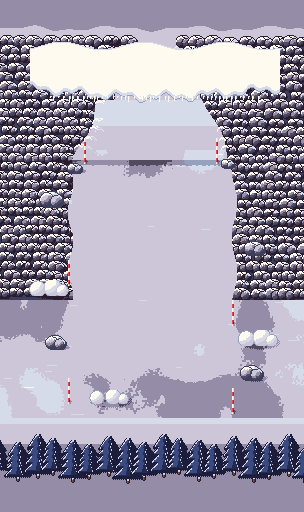
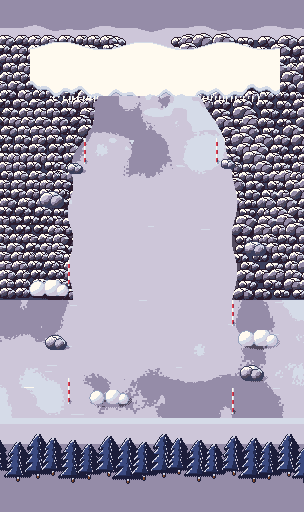
[C] v2.7: avalanche pass - varied boulders, no hard band at the top of the path
Claude-Session: https://claude.ai/code/session_011zCFYQCUMyXvVY6m2szGHz

Changed region(s): [[0.0, 0.0625, 1.0, 0.5938]]

diff --git a/tools/pixel/art_v27_snow.py b/tools/pixel/art_v27_snow.py
@@ -456,8 +456,8 @@ def scene_avalanche_pass() -> Scene26:
                 if side == 0 and x < -20:
                     x += 14
                     continue
-                w = rng0.randrange(14, 24)
-                h = rng0.randrange(9, 14)
+                w = rng0.randrange(12, 30)
+                h = rng0.randrange(8, 17)
                 if side == 1 and x > IMG_W:
                     break
                 rk = K7.snow_rock(int(x * 7 + y), w, h, ("ink", "iron", "slate", "ash"), "ink")
@@ -482,12 +482,12 @@ def scene_avalanche_pass() -> Scene26:
         img.set(x, int(top), "steel_l")
     K7.icicles(img, 50, 260, 96, 5404, ("steel_l", "white", "white"), 7)
     # the path: packed snow, wind-swept, calm in the middle
-    snow_ground(img, (0, 150, IMG_W, IMG_H), 5405, ("ash", "fog", "steel_l"),
+    snow_ground(img, (0, 96, IMG_W, IMG_H), 5405, ("ash", "fog", "steel_l"),
                 mask=lambda x, y: y >= 300 or cliff_l(y) <= x <= cliff_r(y))
     for x in range(IMG_W):
-        for y in range(100, 160):
-            if cliff_l(y) <= x <= cliff_r(y) and name_at(img, x, y) not in ("white", "steel_l", "steel"):
-                img.set(x, y, "steel_l" if y < 126 else "fog")
+        for y in range(96, 150):
+            if cliff_l(y) <= x <= cliff_r(y) and name_at(img, x, y) == "fog" and fbm(x, y, 5407, 14, 2) > 0.38 + (y - 96) / 140:
+                img.set(x, y, "steel_l")
     rng = random.Random(5406)
     for _ in range(80):
         x, y = rng.randrange(0, IMG_W - 14), rng.randrange(150, IMG_H)
@@ -496,7 +496,6 @@ def scene_avalanche_pass() -> Scene26:
         for k in range(rng.randrange(6, 14)):
             if name_at(img, x + k, y) in ("fog", "steel_l"):
                 img.set(x + k, y, "steel_l" if name_at(img, x + k, y) == "fog" else "white")
-    K.edge_shadow(img, AY0, 5)
     # boulders from the last avalanche, snow piles against the cliffs
     for (x, y, w, h) in ((AX0 - 26, AY0 + 30, 26, 16), (AX1 + 2, AY0 + 80, 24, 14), (AX0 - 20, AY1 - 50, 22, 14),
                          (AX1 - 2, AY1 - 20, 26, 15), (AX0 + 2, AY0 + 2, 16, 10), (AX1 - 20, AY0 - 2, 14, 9)):
